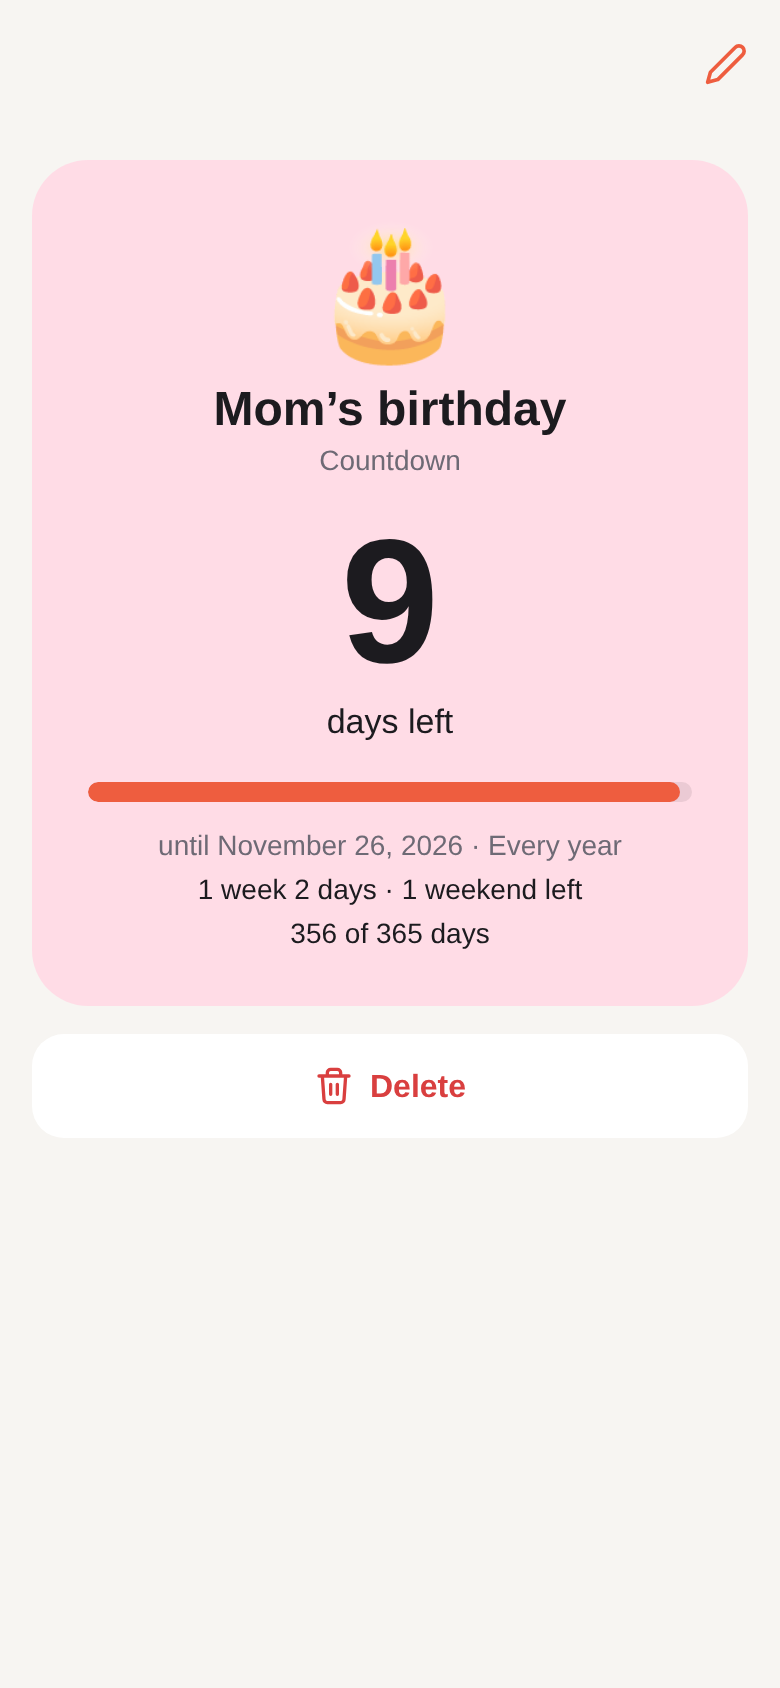
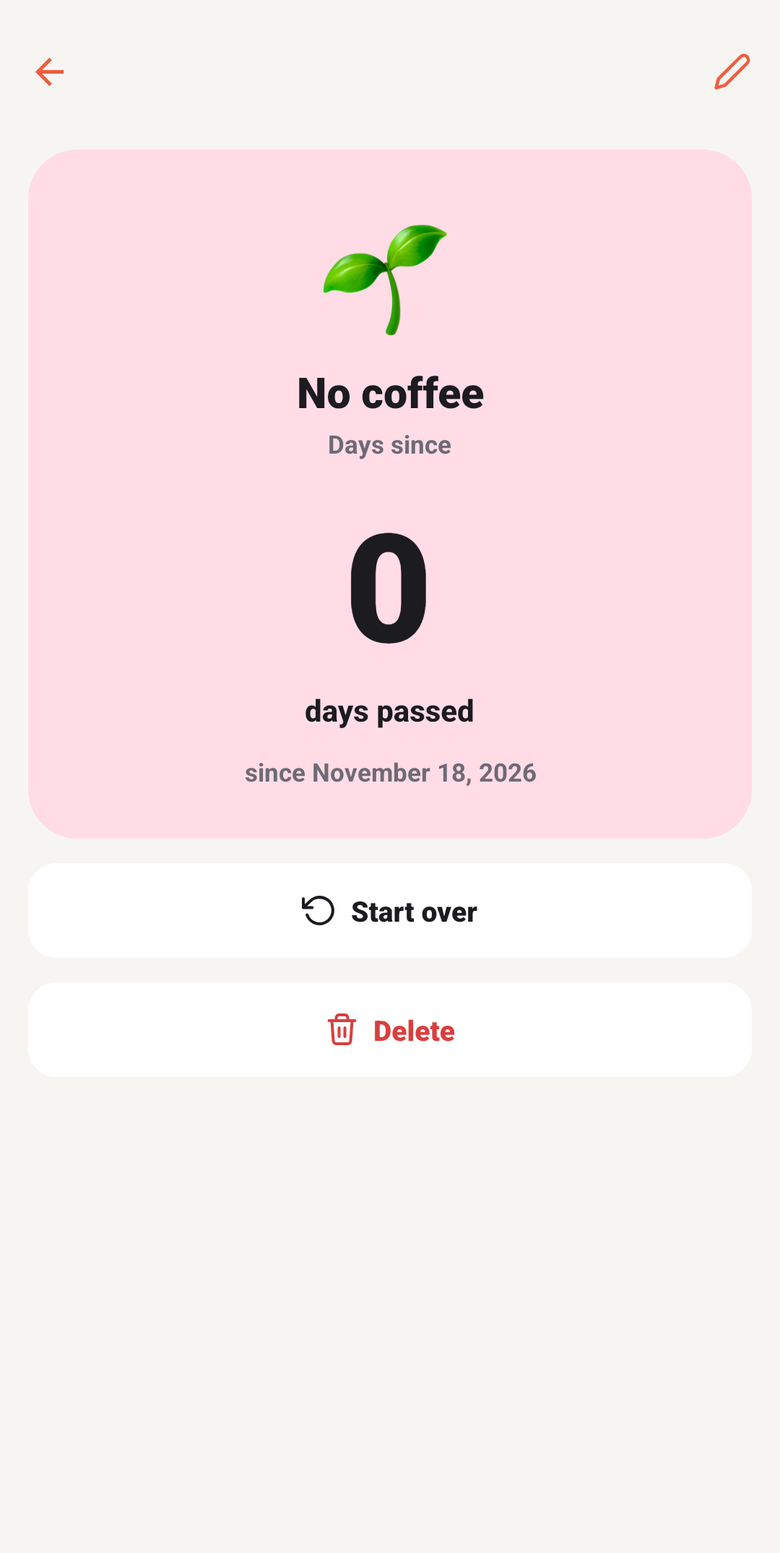
Update the README and the screenshots for 1.3.0
New phone screenshots, with private dates, names and weight blurred.
Describe the GitHub Actions release and fix outdated text.

diff --git a/README.md b/README.md
@@ -9,36 +9,37 @@ It runs on Android and iOS. Built with React Native, Expo and Expo Router.
 
 <table>
   <tr>
-    <td><img src="docs/screenshots/home.png" width="200" alt="Home screen with the year countdown" /></td>
+    <td><img src="docs/screenshots/home.png" width="200" alt="Home screen with the year card and counters" /></td>
+    <td><img src="docs/screenshots/swipe.png" width="200" alt="Swipe actions: delete on the right, edit on the left" /></td>
     <td><img src="docs/screenshots/details.png" width="200" alt="Counter details" /></td>
     <td><img src="docs/screenshots/new-counter.png" width="200" alt="New counter form" /></td>
-    <td><img src="docs/screenshots/home-dark-uk.png" width="200" alt="Home screen in dark theme, in Ukrainian" /></td>
-    <td><img src="docs/screenshots/settings-dark-fr.png" width="200" alt="Settings in French" /></td>
+    <td><img src="docs/screenshots/settings.png" width="200" alt="Settings" /></td>
   </tr>
   <tr>
-    <td align="center">Year countdown and counters</td>
-    <td align="center">Details of a yearly event</td>
+    <td align="center">Year card and counters</td>
+    <td align="center">Swipe to edit or delete</td>
+    <td align="center">Counter details</td>
     <td align="center">New counter</td>
-    <td align="center">Dark theme, Ukrainian</td>
-    <td align="center">Settings, French</td>
+    <td align="center">Settings</td>
   </tr>
 </table>
 
-<img src="docs/screenshots/widgets.png" width="400" alt="Android widgets: a counter and the year" />
+<img src="docs/screenshots/widgets.jpg" width="400" alt="Android widgets: a wide year widget and a counter widget" />
 
 ## Features
 
-- **Year countdown** — how much of the year has passed, days and weekends left.
+- **Year countdown** — how much of the year has passed, days and weekends left. The date at the top shows the year.
 - **Countdown** — days left until a date, with a progress bar. It can repeat every month or every year (birthdays, bills).
 - **Days since** — count days since a date, for habits. You can start again from today.
-- **Reminders** (Android) — for a countdown: on the day, 1 day before or 1 week before. For all counters: on a date that you choose. Each counter has its own reminder time. Tap the notification to open the counter.
 - **Goal** — progress from a start value to a target value, for example weight 88 → 80.
+- **Reminders** (Android) — for a countdown: on the day, 1 day before or 1 week before. For all counters: on a date that you choose. Each counter has its own reminder time. Tap the notification to open the counter.
 - Counters in groups: upcoming (nearest first), since, goals and past.
 - Details: weeks and days left, weekends left, days passed of the total.
 - Create and edit counters with a live preview, quick dates, emoji and 12 card colors.
 - Swipe a counter on the home screen: to the right to edit it, to the left to delete it.
 - Android home screen widgets: the year, and one counter of your choice. Add them from Settings or from the home screen.
-- Native date picker on Android and iOS.
+  Make a widget wide, and the text moves beside the ring or the number.
+- Native date and time pickers on Android and iOS.
 - Light, dark and system themes, and six accent colors.
 - English, Ukrainian and French. The app follows the phone language, or you can choose one in Settings.
 - All data stays on the device (AsyncStorage).
@@ -67,15 +68,31 @@ npm run lint
 npm test
 ```
 
-## Build the APK
+## Release
+
+GitHub Actions builds the releases:
+
+- **CI** (`.github/workflows/ci.yml`) runs typecheck, lint and tests on each push to `main` and each pull request.
+- **Release** (`.github/workflows/release.yml`) runs on a tag `vX.Y.Z`. It builds and signs the APK and creates a draft release.
+
+To make a release:
+
+1. Raise `expo.version` and `expo.android.versionCode` in `app.json`, and `version` in `package.json`.
+2. Commit, then `git tag -a vX.Y.Z -m "Chas X.Y.Z"` and `git push origin main vX.Y.Z`. The tag must match `expo.version`.
+3. When the workflow ends, edit the notes of the draft release and publish it.
+
+The signing key is in the GitHub environment `release`. It accepts only `v*` tags.
+
+## Build the APK on your computer
 
 Needs JDK 17 and the Android SDK.
 
 ```bash
-npx expo prebuild --platform android
+npx expo prebuild --platform android --clean
 cd android && ./gradlew assembleRelease -PreactNativeArchitectures=arm64-v8a
 ```
 
+`prebuild` changes the `android` and `ios` scripts in `package.json`. Put them back before you commit.
 Then sign `android/app/build/outputs/apk/release/app-release.apk` with your release key (`apksigner`).
 
 ## Logo
@@ -88,30 +105,31 @@ It needs `rsvg-convert`.
 ```
 src/
 ├── app/            # Screens (Expo Router)
-│   ├── _layout.tsx # Providers and stack navigator
+│   ├── _layout.tsx # Providers, stack navigator, gestures, reminders
 │   ├── index.tsx   # Year countdown and counter groups
 │   ├── edit.tsx    # Create or edit a counter
 │   ├── [id].tsx    # Counter details
-│   └── settings.tsx# Language, theme, accent color, support
+│   └── settings.tsx# Language, theme, accent color, widgets, support
 ├── components/     # UI parts
 ├── models/         # TypeScript types
 ├── i18n/           # Translations (en, uk, fr)
-├── services/       # Storage (AsyncStorage)
+├── services/       # Storage (AsyncStorage) and reminders (notifications)
 ├── theme/          # Colors
-├── utils/          # Day, year and percent calculations
+├── utils/          # Day, year, percent and reminder calculations
 ├── widgets/        # Android widgets and their configuration screen
 └── AppProvider.tsx # Settings, theme and language for all screens
 index.ts            # Entry: Expo Router and widget registration
+.github/workflows/  # CI and release builds
 ```
 
 ## About the screenshots
 
-The app screenshots come from the web build with demo data, at phone size (390×844, 2×).
-The widget screenshot comes from an Android 16 emulator.
-The web build uses the browser date and time inputs. Android and iOS use the native pickers.
+The screenshots come from an Android phone with version 1.3.0.
+The web build has no reminders and no widgets. It uses the browser date and time inputs.
 
 ## Roadmap
 
+- Repeating reminders, for example each week to update a goal.
 - Calendar view of all events.
 - Tags and pinned counters.
 
